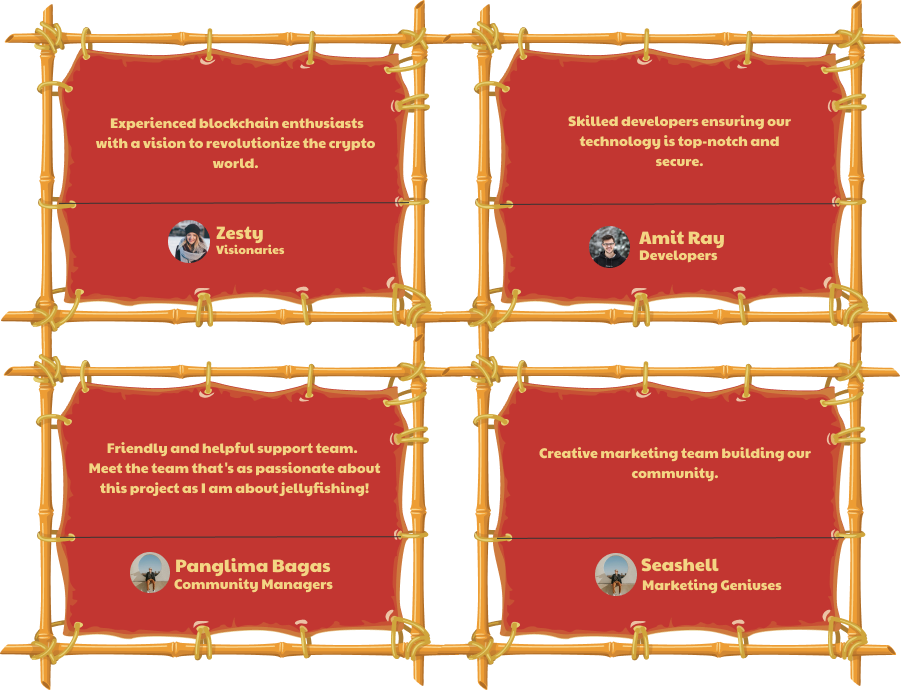
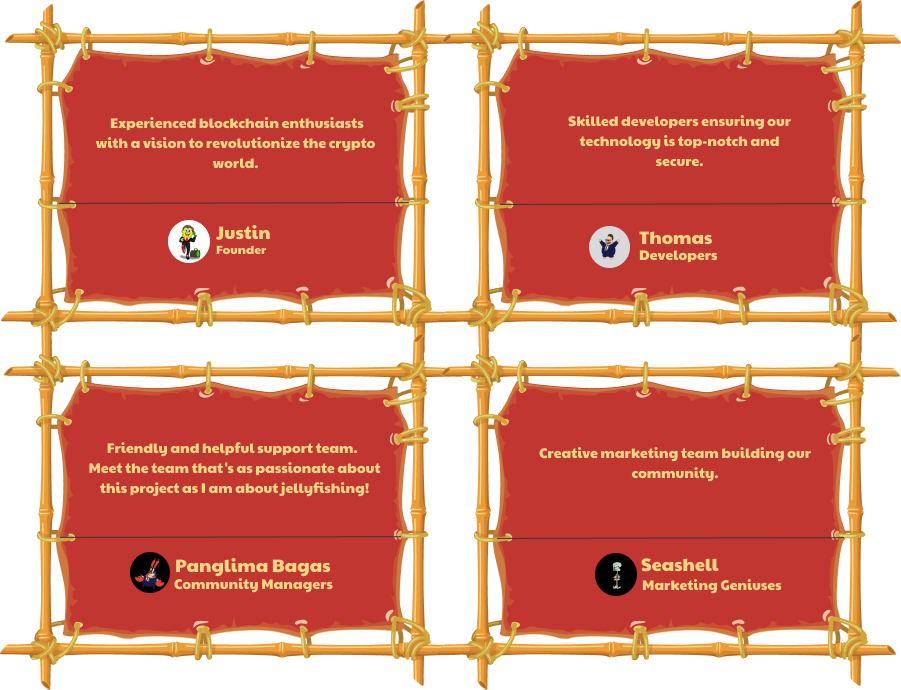
updated team

diff --git a/src/components/About/About.tsx b/src/components/About/About.tsx
@@ -56,11 +56,11 @@ export const About = () => {
                 About Sponge
               </h1>
               <p className=" w-[60%] md:w-[42%]  xl:w-[90%] leading-[11px]  md:leading-3  text-[#F3D583]  text-[9px]  md:text-[12px] lg:text-[15px]  xl:text-[17px] mt-[5px] xl:mt-[15px] mb-[5px]  xl:font-normal xl:leading-[28px] text-center paytone lg:mb-[50px] md:mb-[30px]">
-                The Tale of Sponge of Wall Street on the Solana Blockchain
+                The Tale of Sponge of Wall Street on the Tron Blockchain
                 (Continuation) After Sponge creating, Sponge of Wall Street
-                ($SOW), Sponge's life took an exciting turn. The coin's
+                ($Sponge), Sponge's life took an exciting turn. The coin's
                 popularity soared, and Sponge became famous underwater. Everyone
-                on Wall Street and beyond wanted a piece of $SOW. With $SOW's
+                on Wall Street and beyond wanted a piece of $Sponge. With $Sponge's
                 success, Sponge's ambitions grew. He wanted to make his mark not
                 only underwater but also on the real Wall Street.{" "}
               </p>

diff --git a/src/components/Roadmap/Roadmap.tsx b/src/components/Roadmap/Roadmap.tsx
@@ -42,11 +42,11 @@ const PHASE4 = [
 ];
 
 const PHASE5 = [
-  "Top-Tier Listings: Elevate $SOW with tier-1 exchange listings.",
+  "Top-Tier Listings: Elevate $Sponge with tier-1 exchange listings.",
 ];
 
 const PHASE6 = [
-  "Rewards and Raffles: Exclusive rewards for loyal $SOW holders.",
+  "Rewards and Raffles: Exclusive rewards for loyal $Sponge holders.",
 ];
 
 export const Roadmap = () => {
@@ -172,8 +172,8 @@ export const Roadmap = () => {
         <p
           className={`${styles.text_border01} text-[12px] xl:text-[26px] w-full  xl:w-[70%] paytone text-[#FFFFFF] font-normal xl:leading-[30px] text-left`}
         >
-          Patrick, Mr. Krabs, and even Squidward invested in $SOW, each dreaming
-          of riches. As word spread, $SOW became popular across the ocean,
+          Patrick, Mr. Krabs, and even Squidward invested in $Sponge, each dreaming
+          of riches. As word spread, $Sponge became popular across the ocean,
           bringing the whimsical world of Bikini Bottom to the high-stakes arena
           of digital finance, transforming 2 well-known narratives to Sponge of
           Wall Street.

diff --git a/src/components/JoinNow/JoinNow.tsx b/src/components/JoinNow/JoinNow.tsx
@@ -55,11 +55,11 @@ export const JoinNow = () => {
             Join Now Presale
           </h1>
           <p className="xl:w-[70%] lg:w-[30%] md:w-[50%] sm:w-[50%] w-[70%] text-[8px] sm:text-[12px] lg:text-[12px] md:text-[12px] mt-0 xl:mt-3 xl:text-xl font-normal paytone xl:leading-[35px] text-center text-[#263D6B]">
-            The Tale of Sponge of Wall Street on the Solana Blockchain
-            (Continuation) After Sponge creating, Sponge of Wall Street ($SOW),
+            The Tale of Sponge of Wall Street on the Tron Blockchain
+            (Continuation) After Sponge creating, Sponge of Wall Street ($Sponge),
             Sponge's life took an exciting turn. The coin's popularity soared,
             and Sponge became famous underwater. Everyone on Wall Street and
-            beyond wanted a piece of $SOW. With $SOW's success, Sponge's
+            beyond wanted a piece of $Sponge. With $Sponge's success, Sponge's
             ambitions grew. He wanted to make his mark not only underwater but
             also on the real Wall Street.
           </p>

diff --git a/src/components/airdrop/airdrop.tsx b/src/components/airdrop/airdrop.tsx
@@ -68,11 +68,14 @@ export const Airdrop = () => {
             </div>
           </div>
 
-          <div ref={shell2} className="w-full xl:w-[462px] relative mt-[30px]  lg:mt-[100px]">
+          <div
+            ref={shell2}
+            className="w-full xl:w-[462px] relative mt-[30px]  lg:mt-[100px]"
+          >
             <img src="/shell.png" alt="" />
             <div className="absolute pl-0 left-1/2 xl:left-[50%] -translate-x-1/2 md:pl-8 xl:pl-0 flex justify-center flex-col items-center  top-[40%] -translate-y-1/2">
               <h1 className=" text-[15px]  md:text-[24px]  xl:text-[32px] text-[#c23631] paytone font-normal xl:leading-[44.67px] text-center">
-                Presale
+                Buy Now
               </h1>
               <p className="text-[11px] xl:text-sm m-auto w-[100%] text-[#263D6B] paytone font-normal xl:leading-[19.54px] text-center">
                 Be an early bird! Buy coins at a discounted rate before they hit

diff --git a/src/components/PresaleAbout/PresaleAbout.tsx b/src/components/PresaleAbout/PresaleAbout.tsx
@@ -81,7 +81,7 @@ export const PresaleAbout = () => {
                 Presale Wallet
               </Button>
               <p className="text-base xl:text-[16px] font-normal paytone leading-[27.92px] text-center pt-[10px]">
-                Deposit your investment to our official Solana wallet address:{" "}
+                Deposit your investment to our official Tron wallet address:{" "}
                 {"\u00a0"}
                 {shortAddress("8m5GRo5jgJGfK2NQt9BuWR8FxmAzoQbf5n99X3joAcen")}
               </p>

diff --git a/src/components/ReasonToHave/ReasonToHave.tsx b/src/components/ReasonToHave/ReasonToHave.tsx
@@ -24,7 +24,7 @@ export const ReasonToHave = () => {
               {/* Like Spongebob's unyielding optimism, holding $Sponge keeps your
               portfolio in peak condition, offering presale perks and regular
               bonuses. */}
-              Like Spongebob’s optimism, $SOW boosts your portfolio with presale
+              Like Spongebob’s optimism, $Sponge boosts your portfolio with presale
               perks and bonuses.
             </p>
           </div>

diff --git a/src/components/Header/Header.tsx b/src/components/Header/Header.tsx
@@ -71,8 +71,8 @@ export const Header = () => {
               >
                 {/* BUY{"\u00a0"}
                 {"\u00a0"}
-                {"\u00a0"}$SOW */}
-                How to buy
+                {"\u00a0"}$Sponge */}
+                BUY NOW
               </Button>
             </li>
           </ul>
